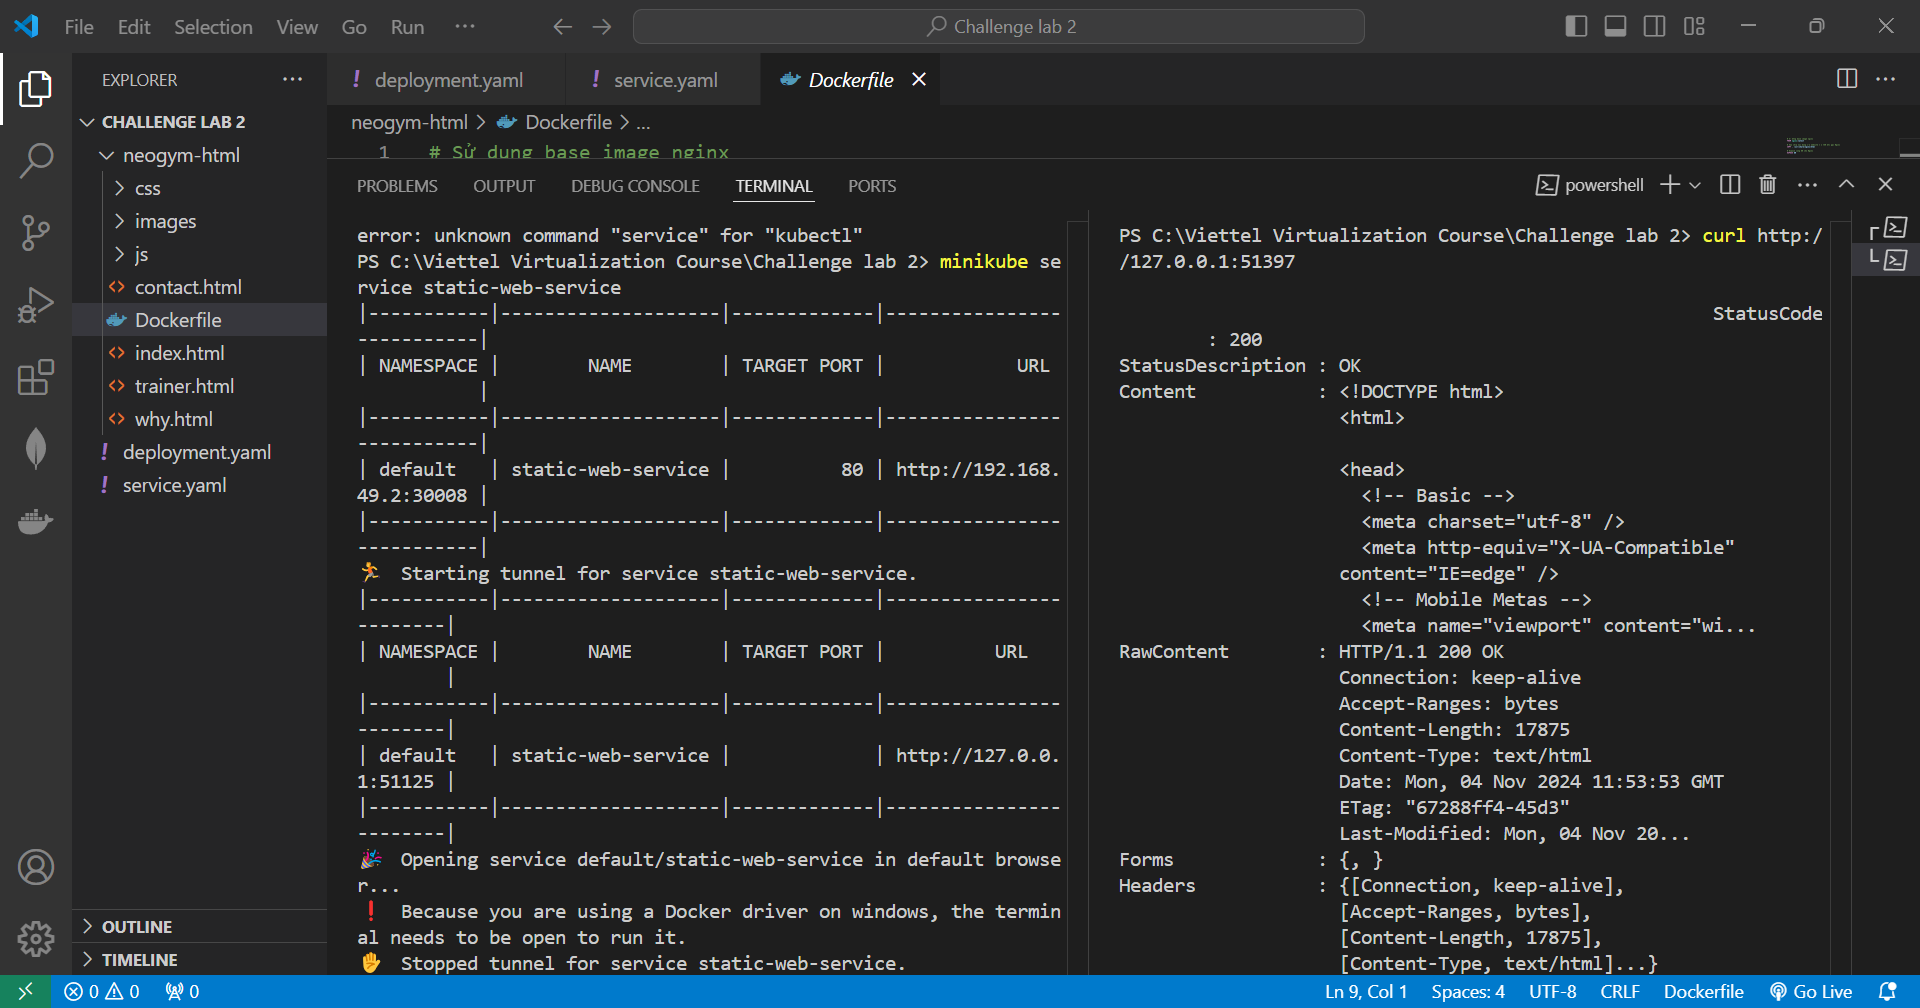
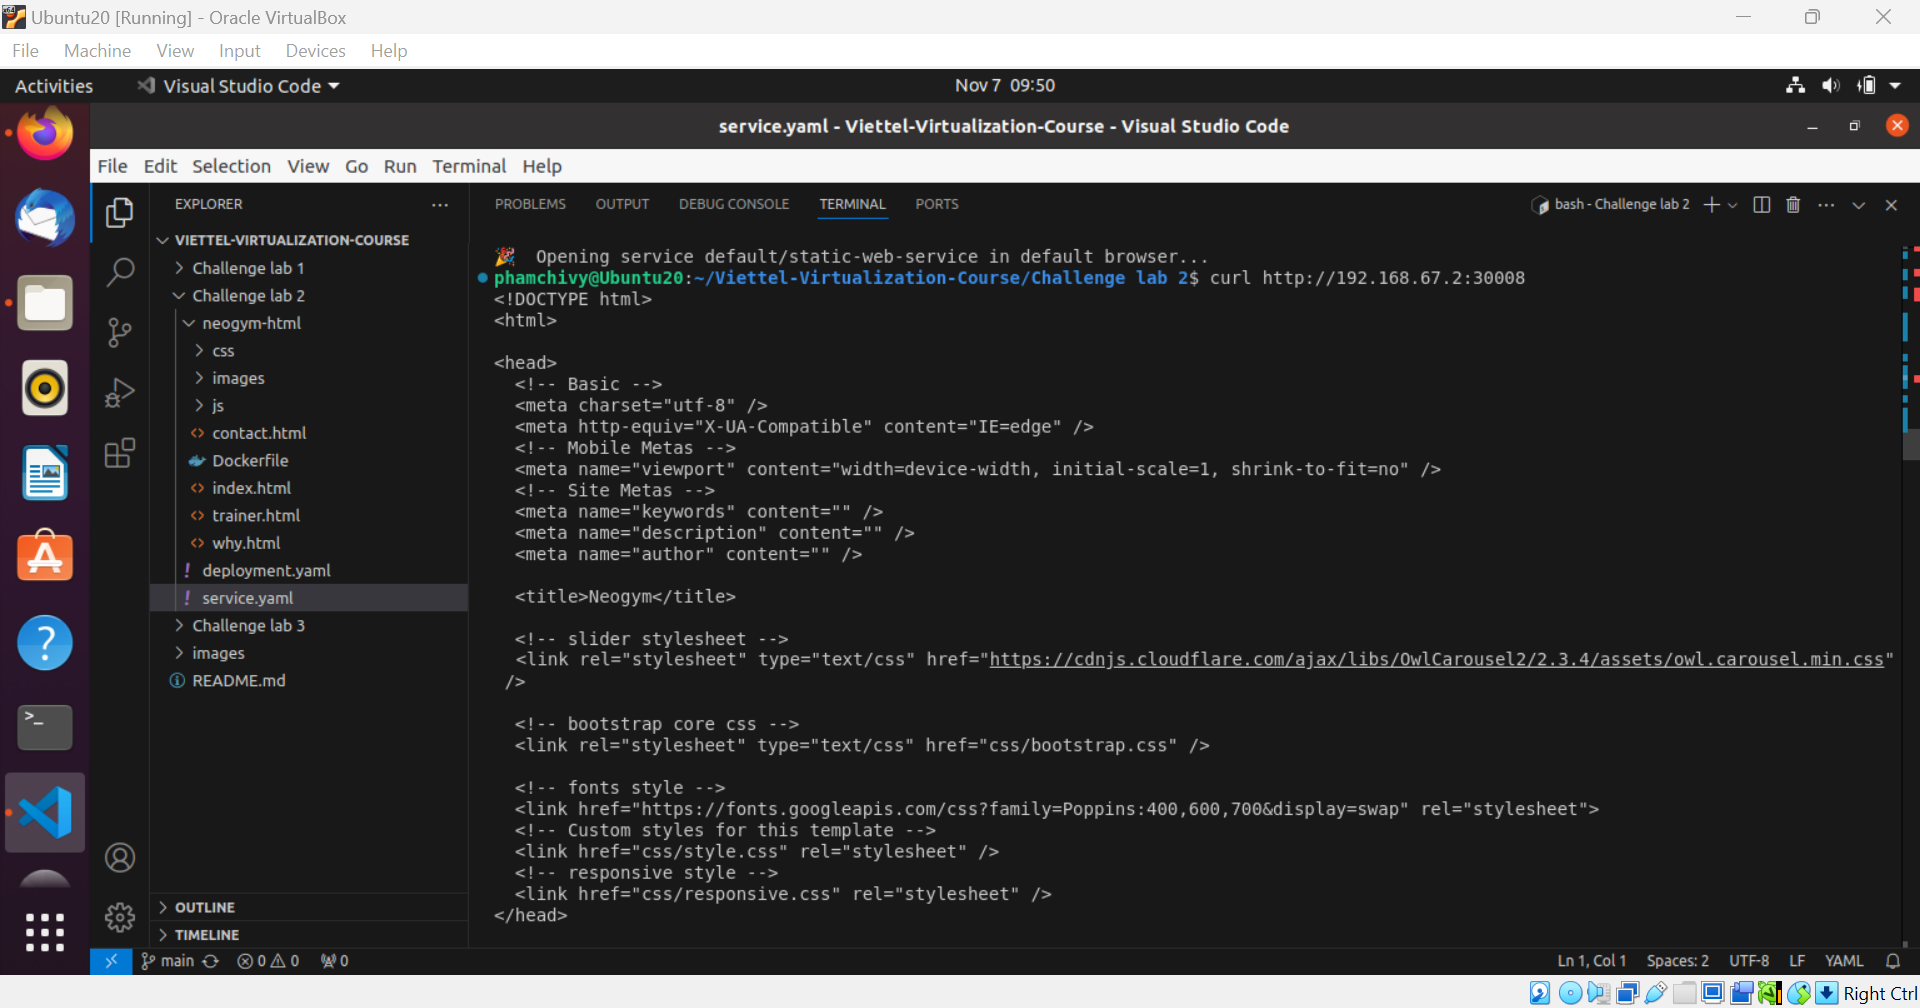
completed challenge 2

diff --git a/README.md b/README.md
@@ -24,7 +24,33 @@ Triển khai một `Deployment` chạy `nginx` trên Kubernetes và cấu hình 
 ![Mô tả hình ảnh](images/Challenge%201/code_1.png)
 ![Mô tả hình ảnh](images/Challenge%201/result_1.png)
 ## Challenge 2
+
+#### Mục Tiêu
+Triển Khai Ứng Dụng Web Tĩnh lên Kubernetes
+#### Yêu cầu
+- Đóng gói thành công container chứa ứng dụng web tĩnh.
+- Tạo một `Deployment` chạy ứng dụng web tĩnh với 2 replicas.
+- Tạo một `NodePort Service` để truy cập ứng dụng từ bên ngoài.
+- Kiểm tra truy cập ứng dụng qua `curl` với `NodePort` và xác nhận kết quả trang web tĩnh.
+
+##### - Phân tích:
 ![Mô tả hình ảnh](images/Challenge%202/diagram_2.png)
+#### - Hướng dẫn triển khai:
+1. **Đóng Gói Container Web Tĩnh**
+- Tải một template web tĩnh từ [Free CSS Templates](https://www.free-css.com/free-css-templates).
+- Sử dụng base image là `nginx` để phục vụ các file web tĩnh.
+- Cấu hình nginx trỏ tới các file web tĩnh.
+  - Tham khảo một ví dụ cấu hình nginx đơn giản tại: [nginx configuration example](https://gist.github.com/mockra/9062657).
+
+2. **Triển Khai Deployment**
+- Tạo một `Deployment` với 2 replicas, chạy ứng dụng web tĩnh.
+  
+3. **Tạo NodePort Service**
+- Tạo một `Service` với loại `NodePort` để truy cập ứng dụng từ bên ngoài.
+
+4. **Kiểm Tra Kết Quả**
+- Thực hiện lệnh `curl` tới `NodePort` để kiểm tra xem ứng dụng web tĩnh có hoạt động và hiển thị đúng trang web không.
+##### - Kết quả:
 ![Mô tả hình ảnh](images/Challenge%202/code_2.png)
 ![Mô tả hình ảnh](images/Challenge%202/result_2.png)
 
